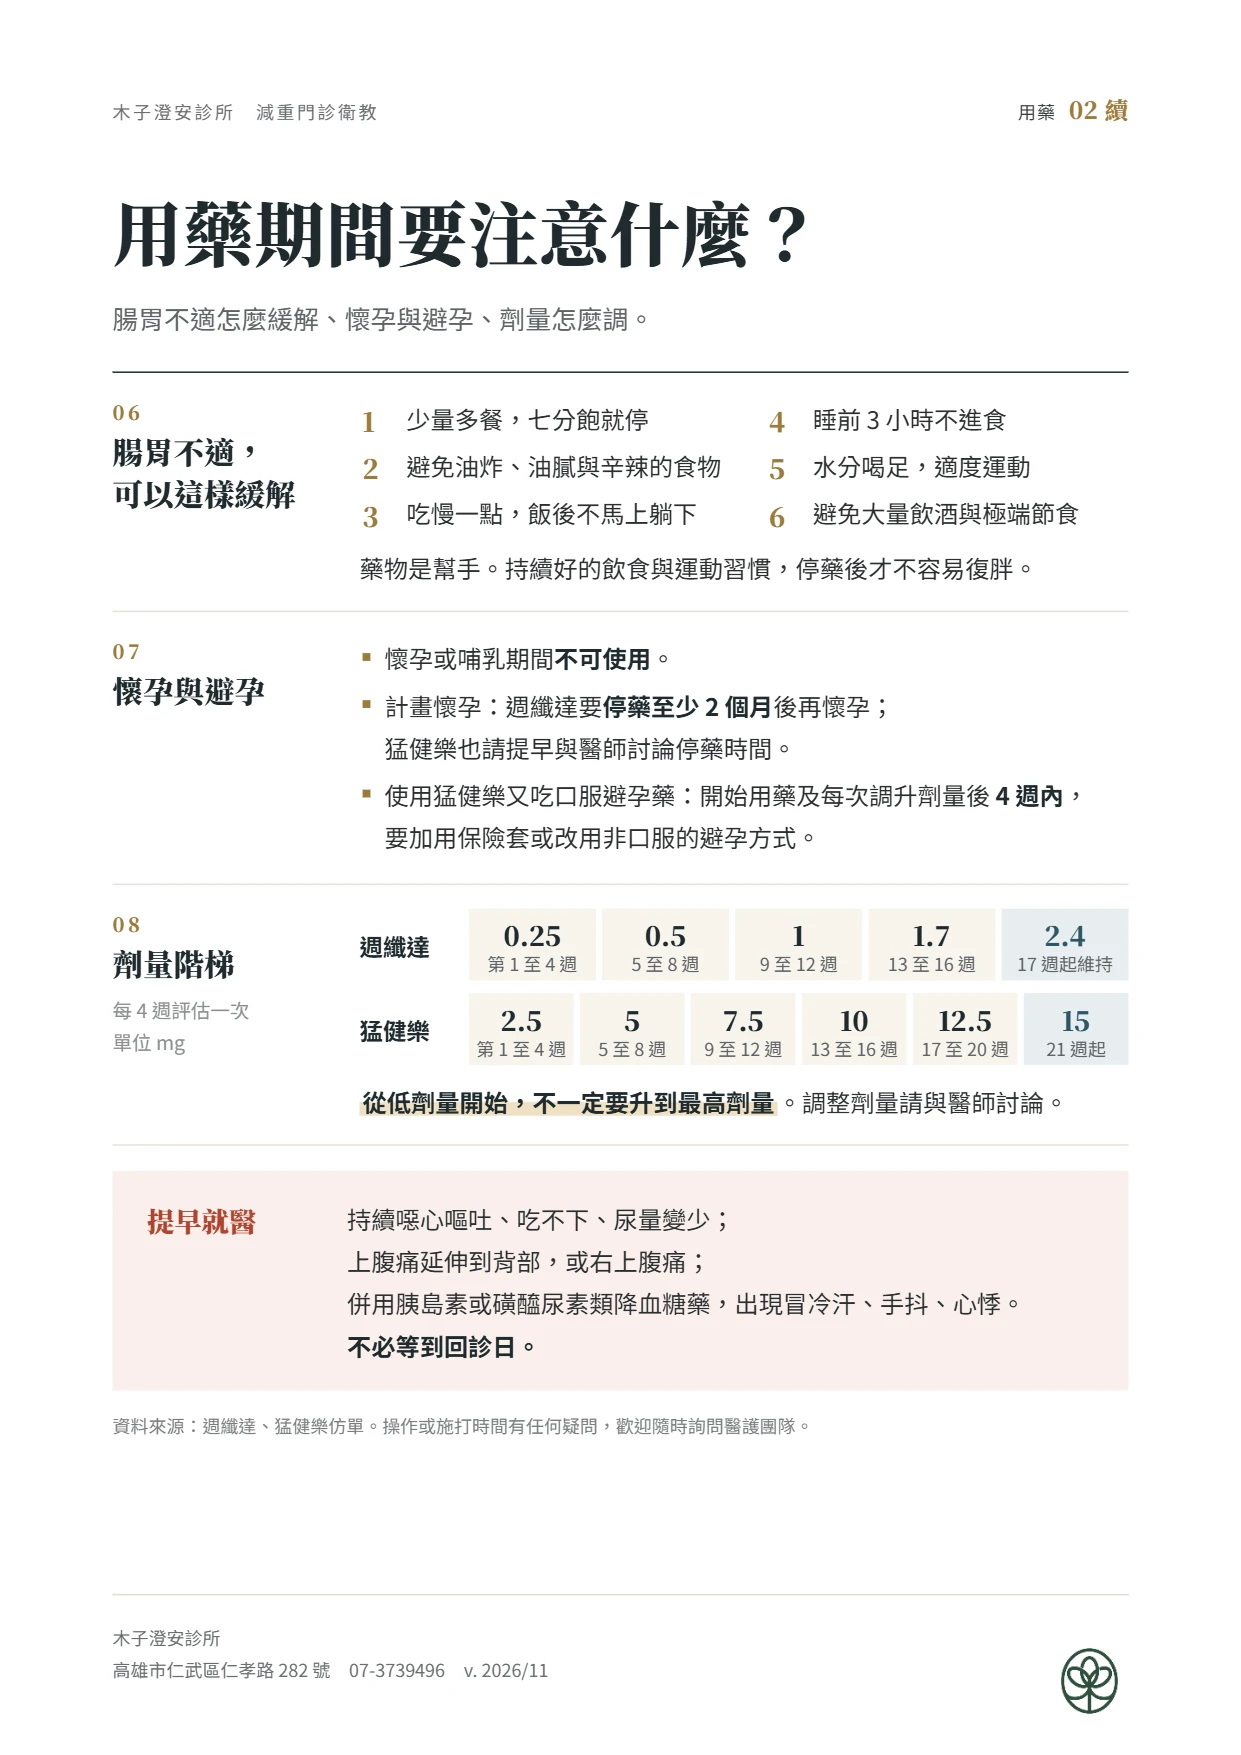
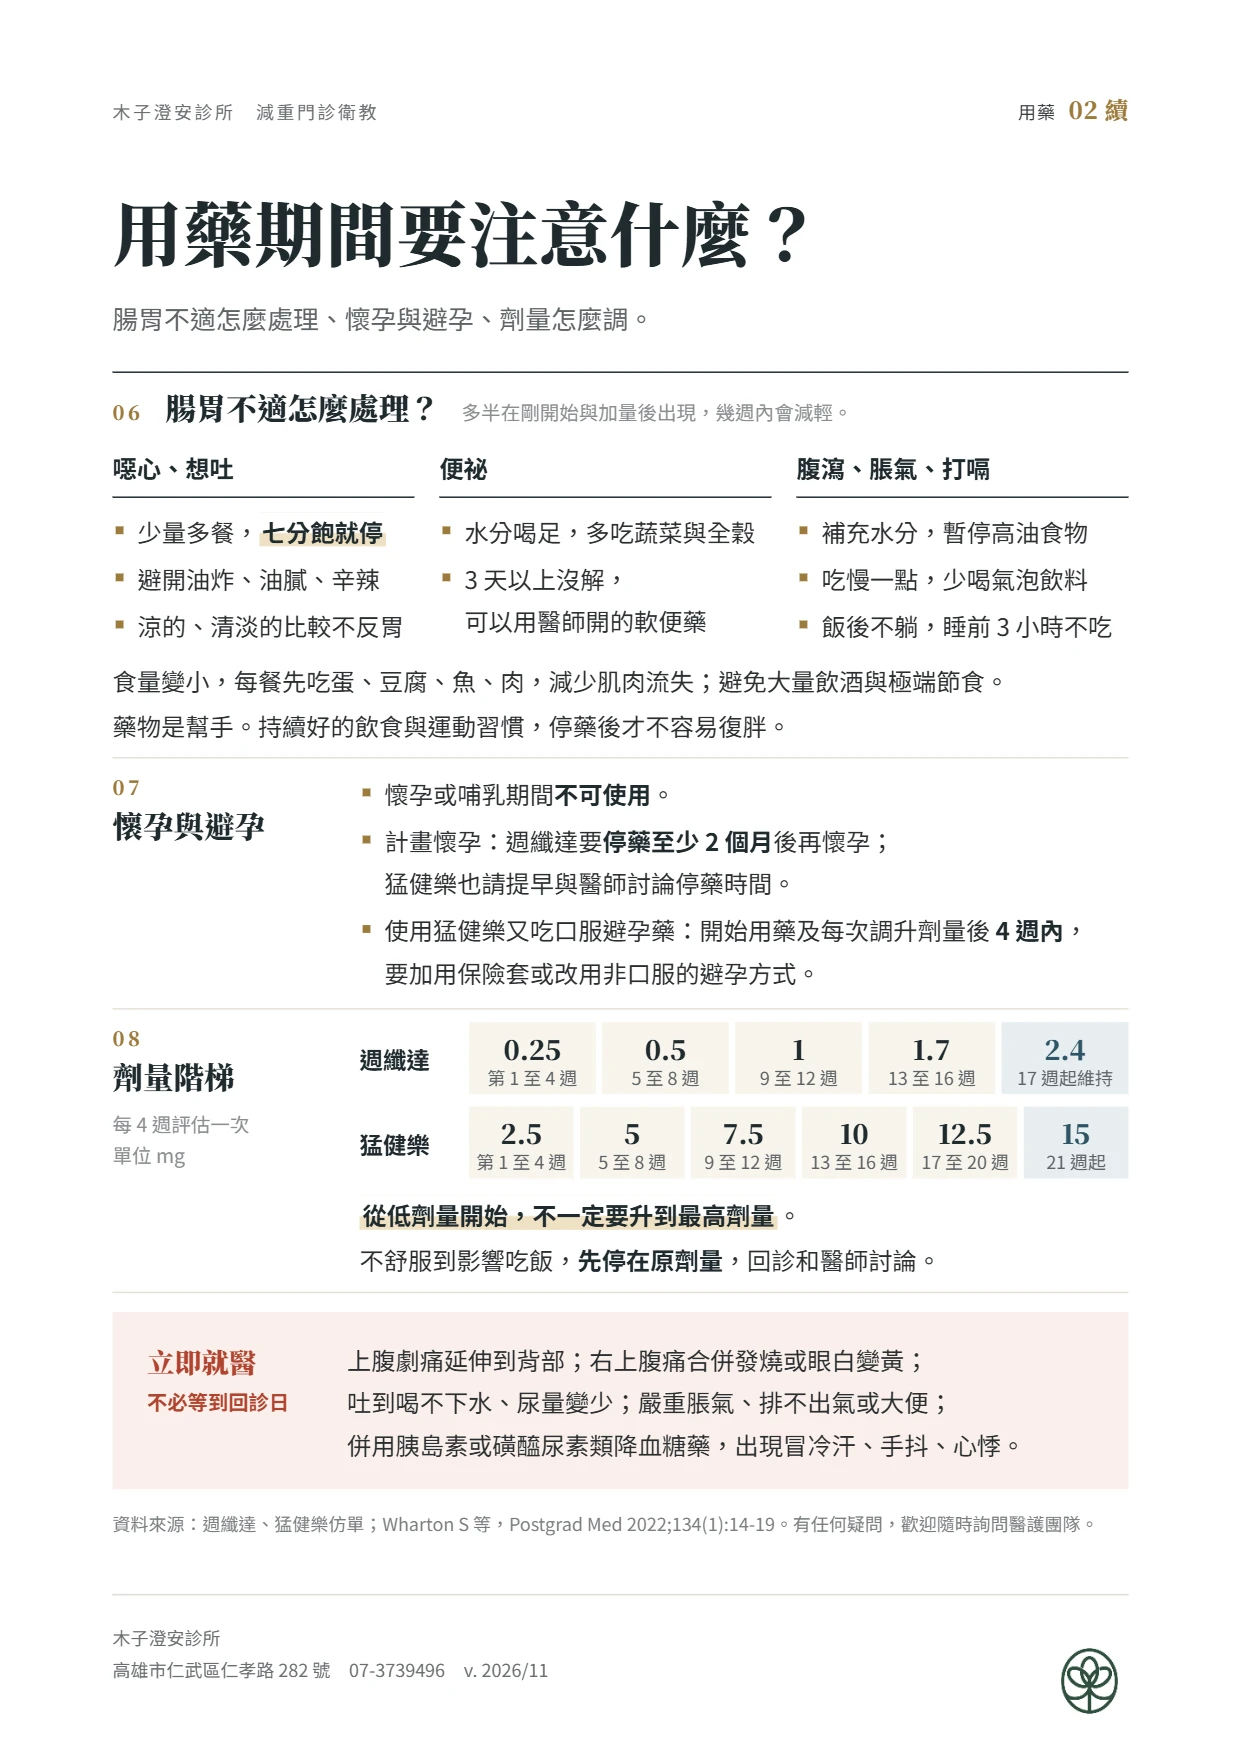
減重衛教：腸泌素副作用併入針劑注意事項，新增 A5 瑞倍適怎麼吃
- 針劑注意事項第 2 頁：06 改成三種症狀分欄處理，補吃夠蛋白質、先停在原劑量，立即就醫項目依副作用單補齊
- 刪除 A5「腸泌素副作用」（原始檔、圖片、側欄項目）
- 新增 A5「瑞倍適怎麼吃」（用藥 03）：服法、劑量、忘記吃、保存、請先告知醫師
- sw.js 快取版號 v88，revision.js 更新工作台日期與改版說明

diff --git a/edu-src/cards.html b/edu-src/cards.html
@@ -37,6 +37,8 @@ ol.n{list-style:none; counter-reset:n;}
 ol.n li{counter-increment:n; position:relative; padding-left:30px; line-height:1.75; margin-bottom:3px;}
 ol.n li::before{content:counter(n); position:absolute; left:2px; font-family:'Noto Serif TC',serif; font-weight:900; color:var(--gold); font-size:17px;}
 .two{display:grid; grid-template-columns:1fr 1fr; column-gap:28px;}
+.three{display:grid; grid-template-columns:1fr 1.1fr 1.1fr; column-gap:16px;}
+.box .t .tn{display:block; font-family:'Noto Sans TC',sans-serif; font-weight:700; font-size:13px; line-height:1.5; color:var(--red);}
 b.s{font-weight:700; color:var(--ink);}
 .red{color:var(--red); font-weight:700;}
 .hl{font-weight:700; color:var(--ink); background:linear-gradient(transparent 58%, var(--hl) 58%); padding:0 2px;}
@@ -80,7 +82,7 @@ table.tb td:last-child{white-space:nowrap; font-weight:700; color:var(--ink);}
 </head>
 <body>
 
-<!-- ───────── 減重：用藥 02 腸泌素針劑怎麼打（2026/11 由「用藥注意事項」與「針劑注射與保存」合併；瑞倍適服法移到用藥 01） ───────── -->
+<!-- ───────── 減重：用藥 02 腸泌素針劑怎麼打（2026/11 由「用藥注意事項」與「針劑注射與保存」合併；瑞倍適服法移到用藥 01；2026/11/12 併入 A5「腸泌素副作用」） ───────── -->
 <section class="page tight" data-out="edu-glp1-guide-1">
   <div class="top"><span>木子澄安診所　減重門診衛教</span><span class="no">用藥<b>02</b></span></div>
   <h1>腸泌素針劑怎麼打？</h1>
@@ -136,22 +138,30 @@ table.tb td:last-child{white-space:nowrap; font-weight:700; color:var(--ink);}
   <div class="foot"><div class="addr">木子澄安診所<br>高雄市仁武區仁孝路 282 號<span>07-3739496</span><span>v. 2026/11</span></div></div><img class="mark" src="../img/logo-mark.png" alt="">
 </section>
 
-<section class="page" data-out="edu-glp1-guide-2">
+<section class="page tight" data-out="edu-glp1-guide-2">
   <div class="top"><span>木子澄安診所　減重門診衛教</span><span class="no">用藥<b>02 續</b></span></div>
   <h1>用藥期間要注意什麼？</h1>
-  <p class="lead">腸胃不適怎麼緩解、懷孕與避孕、劑量怎麼調。</p>
+  <p class="lead">腸胃不適怎麼處理、懷孕與避孕、劑量怎麼調。</p>
   <div class="rule"></div>
-  <div class="row">
-    <div class="k"><small>06</small><b>腸胃不適，<br>可以這樣緩解</b></div>
-    <div class="v"><div class="two"><ol class="n">
-      <li>少量多餐，七分飽就停</li>
-      <li>避免油炸、油膩與辛辣的食物</li>
-      <li>吃慢一點，飯後不馬上躺下</li></ol>
-      <ol class="n" style="counter-reset:n 3"><li>睡前 3 小時不進食</li>
-      <li>水分喝足，適度運動</li>
-      <li>避免大量飲酒與極端節食</li>
-    </ol></div>
-    <p style="margin-top:4px">藥物是幫手。持續好的飲食與運動習慣，停藥後才不容易復胖。</p></div>
+  <!-- 2026/11/12 併入原 A5「用藥 03 腸泌素副作用」：各症狀的處理、吃夠蛋白質、先不要加量、立即就醫的項目 -->
+  <div class="row wide">
+    <div class="k"><small>06</small><b>腸胃不適怎麼處理？</b><span class="sub" style="margin-top:0">多半在剛開始與加量後出現，幾週內會減輕。</span></div>
+    <div class="v">
+      <div class="three">
+        <div><div class="col-h">噁心、想吐</div><ul class="d">
+          <li>少量多餐，<span class="hl">七分飽就停</span></li>
+          <li>避開油炸、油膩、辛辣</li>
+          <li>涼的、清淡的比較不反胃</li></ul></div>
+        <div><div class="col-h">便祕</div><ul class="d">
+          <li>水分喝足，多吃蔬菜與全穀</li>
+          <li>3 天以上沒解，<br>可以用醫師開的軟便藥</li></ul></div>
+        <div><div class="col-h">腹瀉、脹氣、打嗝</div><ul class="d">
+          <li>補充水分，暫停高油食物</li>
+          <li>吃慢一點，少喝氣泡飲料</li>
+          <li>飯後不躺，睡前 3 小時不吃</li></ul></div>
+      </div>
+      <p style="margin-top:4px">食量變小，每餐先吃蛋、豆腐、魚、肉，減少肌肉流失；避免大量飲酒與極端節食。<br>藥物是幫手。持續好的飲食與運動習慣，停藥後才不容易復胖。</p>
+    </div>
   </div>
   <div class="row">
     <div class="k"><small>07</small><b>懷孕與避孕</b></div>
@@ -168,14 +178,14 @@ table.tb td:last-child{white-space:nowrap; font-weight:700; color:var(--ink);}
         <div class="steps"><div><i>0.25</i>第 1 至 4 週</div><div><i>0.5</i>5 至 8 週</div><div><i>1</i>9 至 12 週</div><div><i>1.7</i>13 至 16 週</div><div class="mx"><i>2.4</i>17 週起維持</div></div></div>
       <div class="lad"><b>猛健樂</b>
         <div class="steps"><div><i>2.5</i>第 1 至 4 週</div><div><i>5</i>5 至 8 週</div><div><i>7.5</i>9 至 12 週</div><div><i>10</i>13 至 16 週</div><div><i>12.5</i>17 至 20 週</div><div class="mx"><i>15</i>21 週起</div></div></div>
-      <p style="margin-top:6px"><span class="hl">從低劑量開始，不一定要升到最高劑量</span>。調整劑量請與醫師討論。</p>
+      <p style="margin-top:6px"><span class="hl">從低劑量開始，不一定要升到最高劑量</span>。<br>不舒服到影響吃飯，<b class="s">先停在原劑量</b>，回診和醫師討論。</p>
     </div>
   </div>
   <div class="box alert">
-    <div class="t">提早就醫</div>
-    <div class="c">持續噁心嘔吐、吃不下、尿量變少；<br>上腹痛延伸到背部，或右上腹痛；<br>併用胰島素或磺醯尿素類降血糖藥，出現冒冷汗、手抖、心悸。<br><b class="s">不必等到回診日。</b></div>
+    <div class="t">立即就醫<span class="tn">不必等到回診日</span></div>
+    <div class="c">上腹劇痛延伸到背部；右上腹痛合併發燒或眼白變黃；<br>吐到喝不下水、尿量變少；嚴重脹氣、排不出氣或大便；<br>併用胰島素或磺醯尿素類降血糖藥，出現冒冷汗、手抖、心悸。</div>
   </div>
-  <p class="src">資料來源：週纖達、猛健樂仿單。操作或施打時間有任何疑問，歡迎隨時詢問醫護團隊。</p>
+  <p class="src">資料來源：週纖達、猛健樂仿單；Wharton S 等，Postgrad Med 2022;134(1):14-19。有任何疑問，歡迎隨時詢問醫護團隊。</p>
   <div class="foot"><div class="addr">木子澄安診所<br>高雄市仁武區仁孝路 282 號<span>07-3739496</span><span>v. 2026/11</span></div></div><img class="mark" src="../img/logo-mark.png" alt="">
 </section>
 

diff --git a/edu-src/a5.html b/edu-src/a5.html
@@ -1045,27 +1045,35 @@ table.tb td:last-child{font-weight:700; color:var(--ink);}
   <div class="foot"><div class="addr">高雄市仁武區仁孝路 282 號<span>07-3739496</span><span>v. 2026/11</span></div><div class="qr"><img src="../calc/qr.png" alt=""><span>官方 LINE @muzichengan</span></div></div>
 </section>
 
-<!-- ───────── 減重 用藥 03 腸泌素腸胃副作用（減重門診衛教；補充「用藥 02」第 2 頁，偏重各症狀的處理） ───────── -->
-<section class="page" data-out="edu-a5-glp1-side-effects">
+<!-- ───────── 減重 用藥 03 瑞倍適（Rybelsus）服法與注意事項（2026/11/12 新增，取代原「用藥 03 腸泌素副作用」，副作用內容已併入「用藥 02」第 2 頁） ───────── -->
+<section class="page" data-out="edu-a5-rybelsus">
   <div class="top"><span>木子澄安診所　減重門診衛教</span><span class="no">用藥<b>03</b></span></div>
-  <div class="head"><h1>打針後腸胃不舒服怎麼辦？</h1><p class="lead">多半在剛開始與加量後出現，<br>幾週內會減輕。</p></div>
+  <div class="head"><h1>瑞倍適怎麼吃？</h1><p class="lead">口服的腸泌素，<br>空腹吃才吸收得到。</p></div>
   <div class="rule"></div>
   <div class="cols">
     <div class="col">
-      <div class="row"><div class="k"><small>01</small><b>噁心、想吐</b></div>
-        <div class="v"><p>少量多餐，<span class="hl">七分飽就停</span>，避開油膩。<br>涼的、清淡的食物比較不會反胃。</p></div></div>
-      <div class="row"><div class="k"><small>02</small><b>便祕</b></div>
-        <div class="v"><p>水分喝足，多吃蔬菜與全穀。<br>3 天以上沒解，可以用醫師開的軟便藥。</p></div></div>
-      <div class="row"><div class="k"><small>03</small><b>腹瀉、脹氣、打嗝</b></div>
-        <div class="v"><p>補充水分，暫停油炸與高油食物。<br>吃慢一點，少喝氣泡飲料。</p></div></div>
-      <p class="src">資料來源：腸泌素類藥物仿單；Wharton S 等，<br>Postgrad Med 2022;134(1):14-19。</p>
+      <div class="row"><div class="k"><small>01</small><b>服法</b></div>
+        <div class="v"><ul class="d">
+          <li>每天<span class="hl">起床空腹</span>吃一顆，<br>配<b class="s">不超過 120 mL</b> 白開水整顆吞服。</li>
+          <li><span class="red">不可壓碎、剝半或咀嚼。</span></li>
+          <li>吃完等 <span class="hl">30 分鐘</span>以上，<br>才可以吃東西、喝水或吃其他藥。</li>
+        </ul></div></div>
+      <div class="row"><div class="k"><small>02</small><b>劑量</b></div>
+        <div class="v"><p>從 3 mg 開始，每階段至少 30 天，<br>再依醫師評估調到 7 mg、14 mg。</p></div></div>
+      <div class="row"><div class="k"><small>03</small><b>忘記吃</b></div>
+        <div class="v"><p>當天跳過，隔天照常；<span class="red">不要一次吃兩顆</span>。</p></div></div>
+      <div class="row"><div class="k"><small>04</small><b>保存</b></div>
+        <div class="v"><p>留在原本的鋁箔包裝裡，要吃時才取出。</p></div></div>
     </div>
     <div class="col">
-      <div class="row"><div class="k"><small>04</small><b>先不要加量</b></div>
-        <div class="v"><p>不舒服到影響吃飯，先停在原劑量，<br>回診和醫師討論，<br>多停留幾週再往上加也可以。</p></div></div>
-      <div class="row"><div class="k"><small>05</small><b>吃夠蛋白質</b></div>
-        <div class="v"><p>食量變小，每餐先吃蛋、豆腐、魚、肉，<br>減少肌肉流失。</p></div></div>
-      <div class="box alert"><div class="t">立即就醫</div><div class="c">上腹劇痛延伸到背部；右上腹痛合併發燒<br>或眼白變黃；吐到喝不下水、尿量變少；<br>嚴重脹氣、排不出氣或大便。</div></div>
+      <div class="row"><div class="k"><small>05</small><b>請先告知醫師</b></div>
+        <div class="v"><ul class="d">
+          <li>懷孕、哺乳不可使用；<br>計畫懷孕前至少停藥 2 個月。</li>
+          <li>正在吃甲狀腺素，或使用胰島素、<br>磺醯尿素類降血糖藥。</li>
+          <li>本人或家族有甲狀腺髓質癌。</li>
+        </ul></div></div>
+      <div class="box alert"><div class="t">立即就醫</div><div class="c">上腹劇痛延伸到背部；<br>吐到喝不下水、尿量變少。</div></div>
+      <p class="src">資料來源：瑞倍適仿單。台灣核准用於第二型糖尿病，<br>用於體重管理屬適應症外使用。</p>
     </div>
   </div>
   <div class="foot"><div class="addr">高雄市仁武區仁孝路 282 號<span>07-3739496</span><span>v. 2026/11</span></div><div class="qr"><img src="../calc/qr.png" alt=""><span>官方 LINE @muzichengan</span></div></div>

diff --git a/revision.js b/revision.js
@@ -2,7 +2,7 @@
    工作台（index.html）與臨床計算病人版（calc/index.html）都先載入這份，各工具再從 REVISION 讀自己的日期。
    報價單上的「價目版本」不在這裡：價格有變才改，見 quote/app.js 的 Q_PRICE_VERSION。 */
 const REVISION = {
-  hub:     '2026-11-11',
+  hub:     '2026-11-12',
   quote:   '2026-11-11',
   calc:    '2026-11-11',
   weight:  '2026-11-12',
@@ -12,8 +12,6 @@ const REVISION = {
 /* 工作台左下角只顯示最新的一個日期（上面五個取最晚的），點一下會跳出這次改了什麼。
    每次改版就把這裡整份換成「當次」的簡短說明，一行一件事；不要把前幾次的說明留著累加。 */
 const REVISION_NOTE = [
-  "減重與健檢報告：追蹤時程共用同一個排版，名稱統一為「回診與追蹤時程」；時間欄放寬，只在詞與詞之間換行，日期改成粗體藍綠色",
-  "減重與健檢報告：評估總結新增「下次回診」小框；醫師評語草稿不再列回診清單",
-  "減重報告：時間欄拆成「時間」與「補充說明」兩格；用藥後 1 至 2 週不換算日期；1 個月回診說明改成「評估是否調整劑量」",
-  "健檢報告：LINE 摘要圖的回診時間加上推算日期，第一組用金色標示，文字只在詞與詞之間換行"
+  "減重衛教：「腸泌素副作用」A5 併入「針劑注意事項」第 2 頁（三種症狀分欄處理、吃夠蛋白質、先停在原劑量、立即就醫項目補齊），原單刪除",
+  "減重衛教：新增 A5「瑞倍適怎麼吃」（服法、劑量、忘記吃、保存、請先告知醫師），排在針劑注意事項下一格"
 ];

diff --git a/edu/edu.js b/edu/edu.js
@@ -69,7 +69,8 @@ const EDU_LIST = [
   // 2026/11 由「用藥注意事項」與「針劑注射與保存」合併；瑞倍適服法移到「減重藥物怎麼選」
   // 側欄名稱的例外：圖卡標題仍是「腸泌素針劑怎麼打？」，側欄依 YT 要求寫「針劑注意事項」（2026/11/09）
   ['weight', '用藥',     '針劑注意事項',     ICON.pen,     ['img/edu-glp1-guide-1.webp', 'img/edu-glp1-guide-2.webp']],
-  ['weight', '用藥',     '腸泌素副作用',     ICON.pen,      ['img/edu-a5-glp1-side-effects.webp'], 'A5'],
+  // 2026/11/12：原「腸泌素副作用」A5 併入上面的針劑注意事項第 2 頁並刪除；用藥 03 改成瑞倍適服法與注意事項
+  ['weight', '用藥',     '瑞倍適怎麼吃',     ICON.pill,     ['img/edu-a5-rybelsus.webp'], 'A5'],
   // 地中海飲食衛教原本放在列印表單，合併後歸到減重衛教
   ['weight', '飲食',     '地中海飲食衛教',   ICON.leaf,     ['img/diet-mediterranean-1.webp', 'img/diet-mediterranean-2.webp']],
   // 2026/11/09 重新排列：同類的衛教相鄰（內視鏡檢查前、瘜肉切除與追蹤、上消化道、下消化道），圖卡角落編號一併改過

diff --git a/sw.js b/sw.js
@@ -9,7 +9,7 @@
    工作台開啟後會把所有衛教與表單圖片預先存下，斷網時也能顯示與列印。
    網路很慢（伺服器 3 秒內沒回應，圖片 6 秒）時先用快取開啟，背景照樣把新版存下，下次開啟就是新版；
    以前會一直等到連線逾時，網路卡住時整個工作台白畫面。 */
-const CACHE = 'tools-v87';
+const CACHE = 'tools-v88';
 const CORE = [
   './', 'index.html',
   'mount.js', 'revision.js',

diff --git a/edu-src/README.md b/edu-src/README.md
@@ -6,8 +6,8 @@
 
 | 檔案 | 用途 |
 |---|---|
-| `cards.html` | 減重「用藥 02 腸泌素針劑怎麼打」2 頁的完整版面（2026/11 由「用藥注意事項」與「針劑注射與保存」合併，瑞倍適服法移到用藥 01），版型比照減重「療程」系列。檢查與治療類的 A4 舊版（胃鏡檢查前、瘜肉切除、冷凝刀、抗逆流結紮、幽門桿菌）已由 `a5.html` 取代並刪除 |
-| `a5.html` | A5 衛教單：檢查與治療衛教（檢查前 01 至 04、檢查後 01、治療後 01 至 06；工作台側欄分類名稱為「檢查治療衛教」），用藥衛教（用藥 01 幽門桿菌、02 PPI、03 痔瘡藥膏與塞劑、04 痔瘡保護敷料、05 降血脂藥，頁首左邊寫「用藥衛教」），疾病衛教（肝膽 01 至 04、腸胃 01 至 08、腎臟 01、02、慢性病 01 至 04，頁首左邊寫「疾病衛教」），疫苗衛教（疫苗 01 帶狀疱疹、02 HPV、03 B 型肝炎、04 A 型肝炎，頁首左邊寫「疫苗衛教」；四張的「打完之後」與「立即就醫」用同一套文字，改的時候一起改），減重門診衛教用藥 03（腸泌素副作用）。版面是 A4 上半部 210 × 148.5 mm，輸出整張 A4 直式 1241 × 1755 WebP（內容在上半頁、下半頁留白），列印時就是一般 A4 直式，紙匣放 A5 紙、長邊先進紙即可。右下角只放官方 LINE QR code（`calc/qr.png`，19 mm，下方標示「官方 LINE @muzichengan」），疊在頁尾右側往上突出；`fitReport()` 右欄量到 QR code 上緣。另有 `breakReport()` 列出自動換行的位置，用來檢查名詞有沒有被切斷 |
+| `cards.html` | 減重「用藥 02 腸泌素針劑怎麼打」2 頁的完整版面（2026/11 由「用藥注意事項」與「針劑注射與保存」合併，瑞倍適服法移到用藥 01；2026/11/12 併入 A5「腸泌素副作用」），版型比照減重「療程」系列。檢查與治療類的 A4 舊版（胃鏡檢查前、瘜肉切除、冷凝刀、抗逆流結紮、幽門桿菌）已由 `a5.html` 取代並刪除 |
+| `a5.html` | A5 衛教單：檢查與治療衛教（檢查前 01 至 04、檢查後 01、治療後 01 至 06；工作台側欄分類名稱為「檢查治療衛教」），用藥衛教（用藥 01 幽門桿菌、02 PPI、03 痔瘡藥膏與塞劑、04 痔瘡保護敷料、05 降血脂藥，頁首左邊寫「用藥衛教」），疾病衛教（肝膽 01 至 04、腸胃 01 至 08、腎臟 01、02、慢性病 01 至 04，頁首左邊寫「疾病衛教」），疫苗衛教（疫苗 01 帶狀疱疹、02 HPV、03 B 型肝炎、04 A 型肝炎，頁首左邊寫「疫苗衛教」；四張的「打完之後」與「立即就醫」用同一套文字，改的時候一起改），減重門診衛教用藥 03（瑞倍適怎麼吃；原「腸泌素副作用」2026/11/12 併入 `cards.html` 用藥 02 第 2 頁）。版面是 A4 上半部 210 × 148.5 mm，輸出整張 A4 直式 1241 × 1755 WebP（內容在上半頁、下半頁留白），列印時就是一般 A4 直式，紙匣放 A5 紙、長邊先進紙即可。右下角只放官方 LINE QR code（`calc/qr.png`，19 mm，下方標示「官方 LINE @muzichengan」），疊在頁尾右側往上突出；`fitReport()` 右欄量到 QR code 上緣。另有 `breakReport()` 列出自動換行的位置，用來檢查名詞有沒有被切斷 |
 | `patch.html` | 減重「療程 03 內視鏡減重治療」「療程 04 回診時程」「用藥 01 減重藥物怎麼選」「認識肥胖 01、04」沒有版面原始檔，這裡在原圖上蓋白後重寫改過的字 |
 | `patch.html` 的 `LOGO_ONLY` | 沒有內容修改、只換右下角 LOGO 的 A4 圖卡（地中海飲食 1、2，療程 01、02，認識肥胖 02、03） |
 | `orig/` | `patch.html` 處理的每一張原圖（修改前），一律從這裡開始改，重跑不會疊加 |
